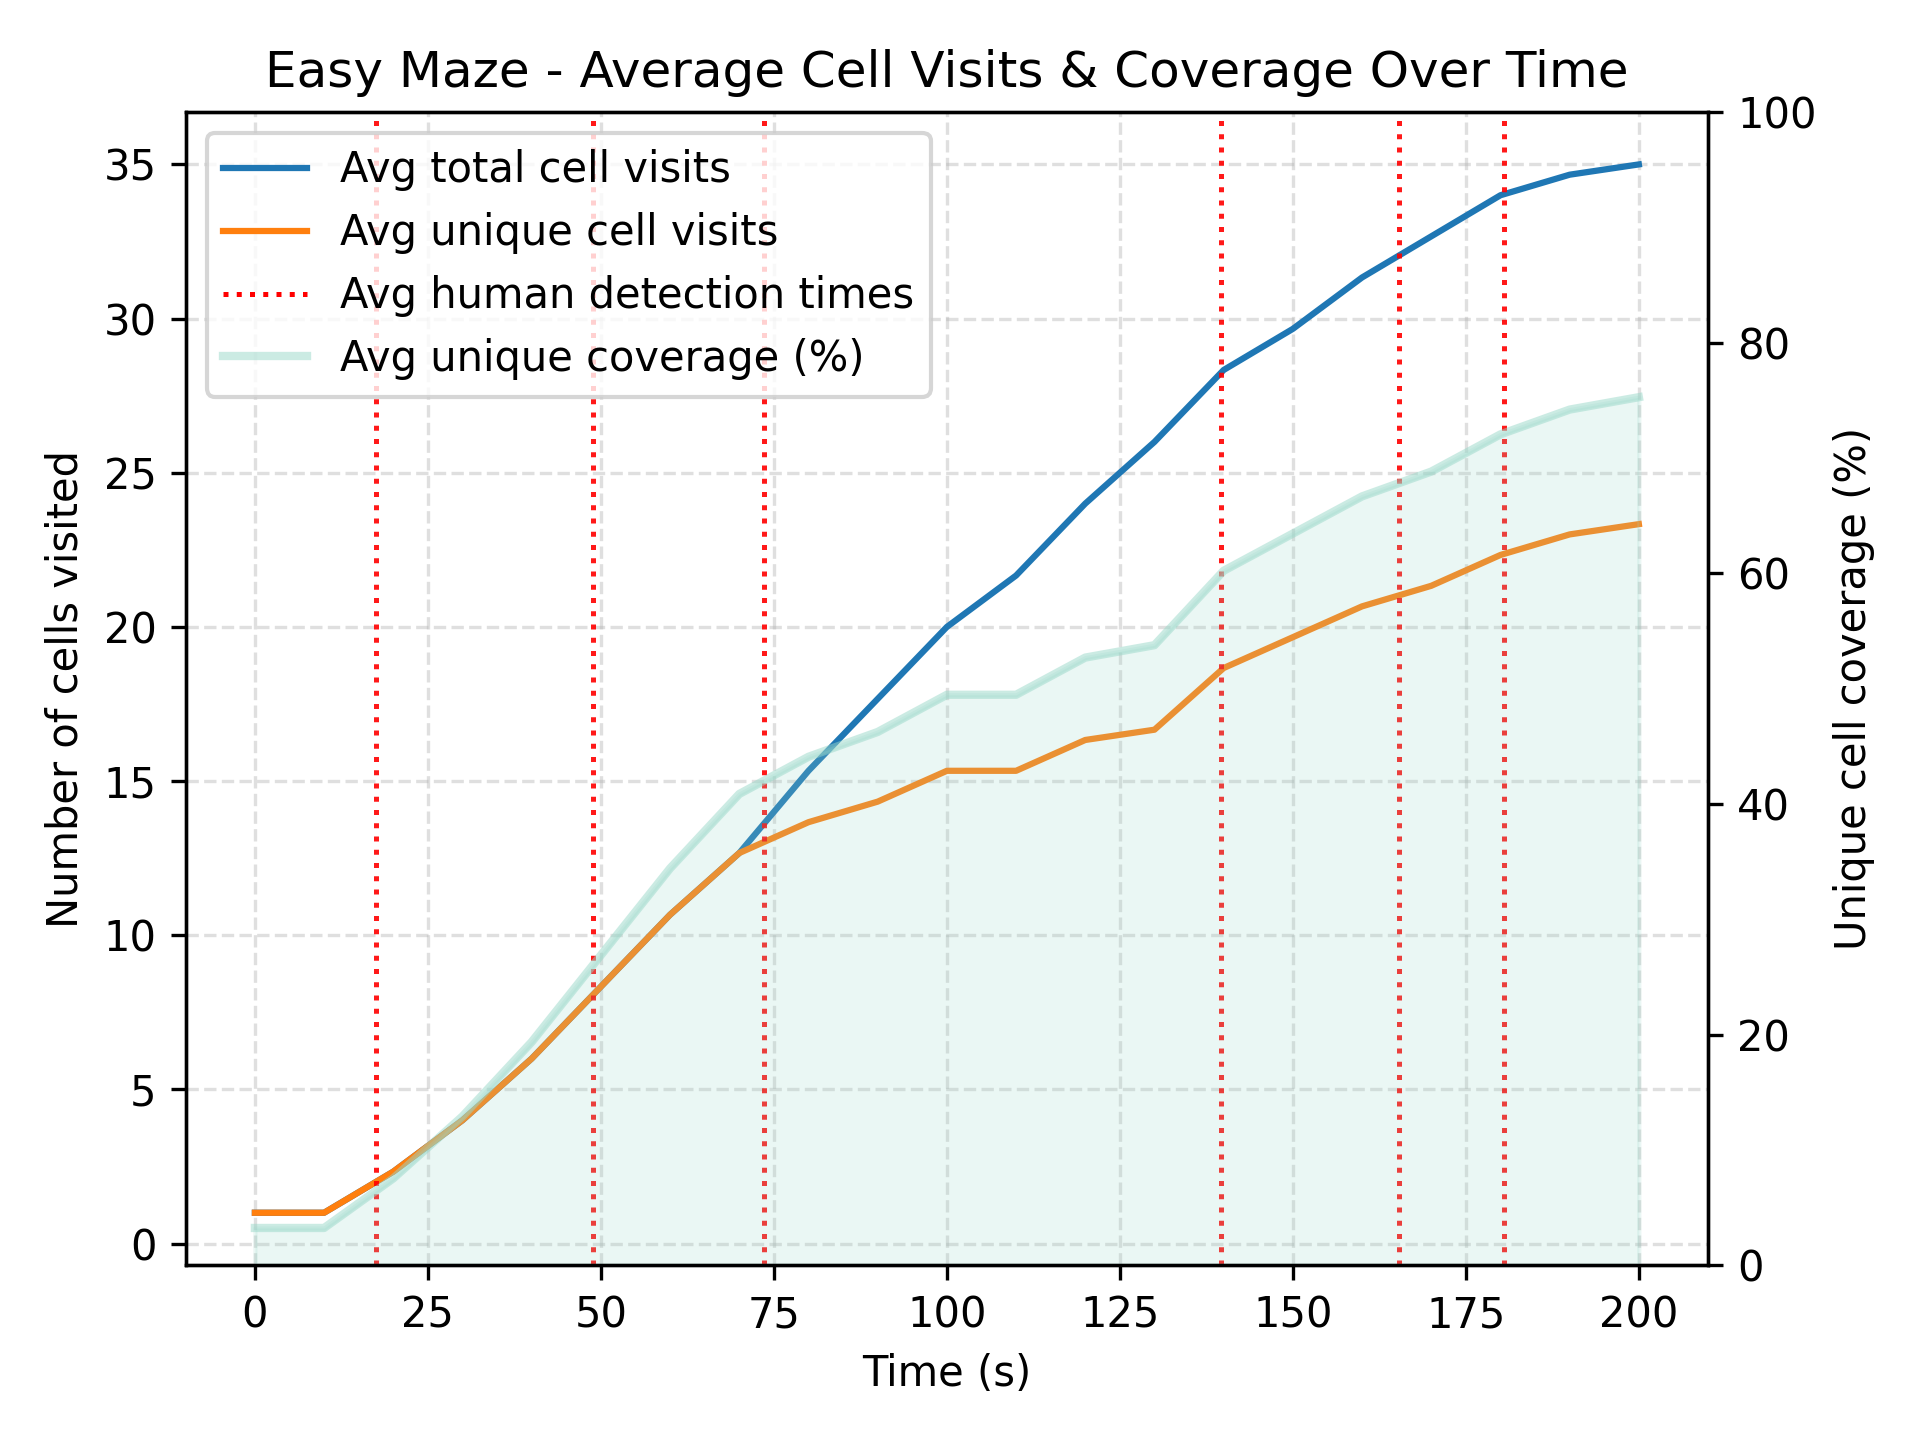
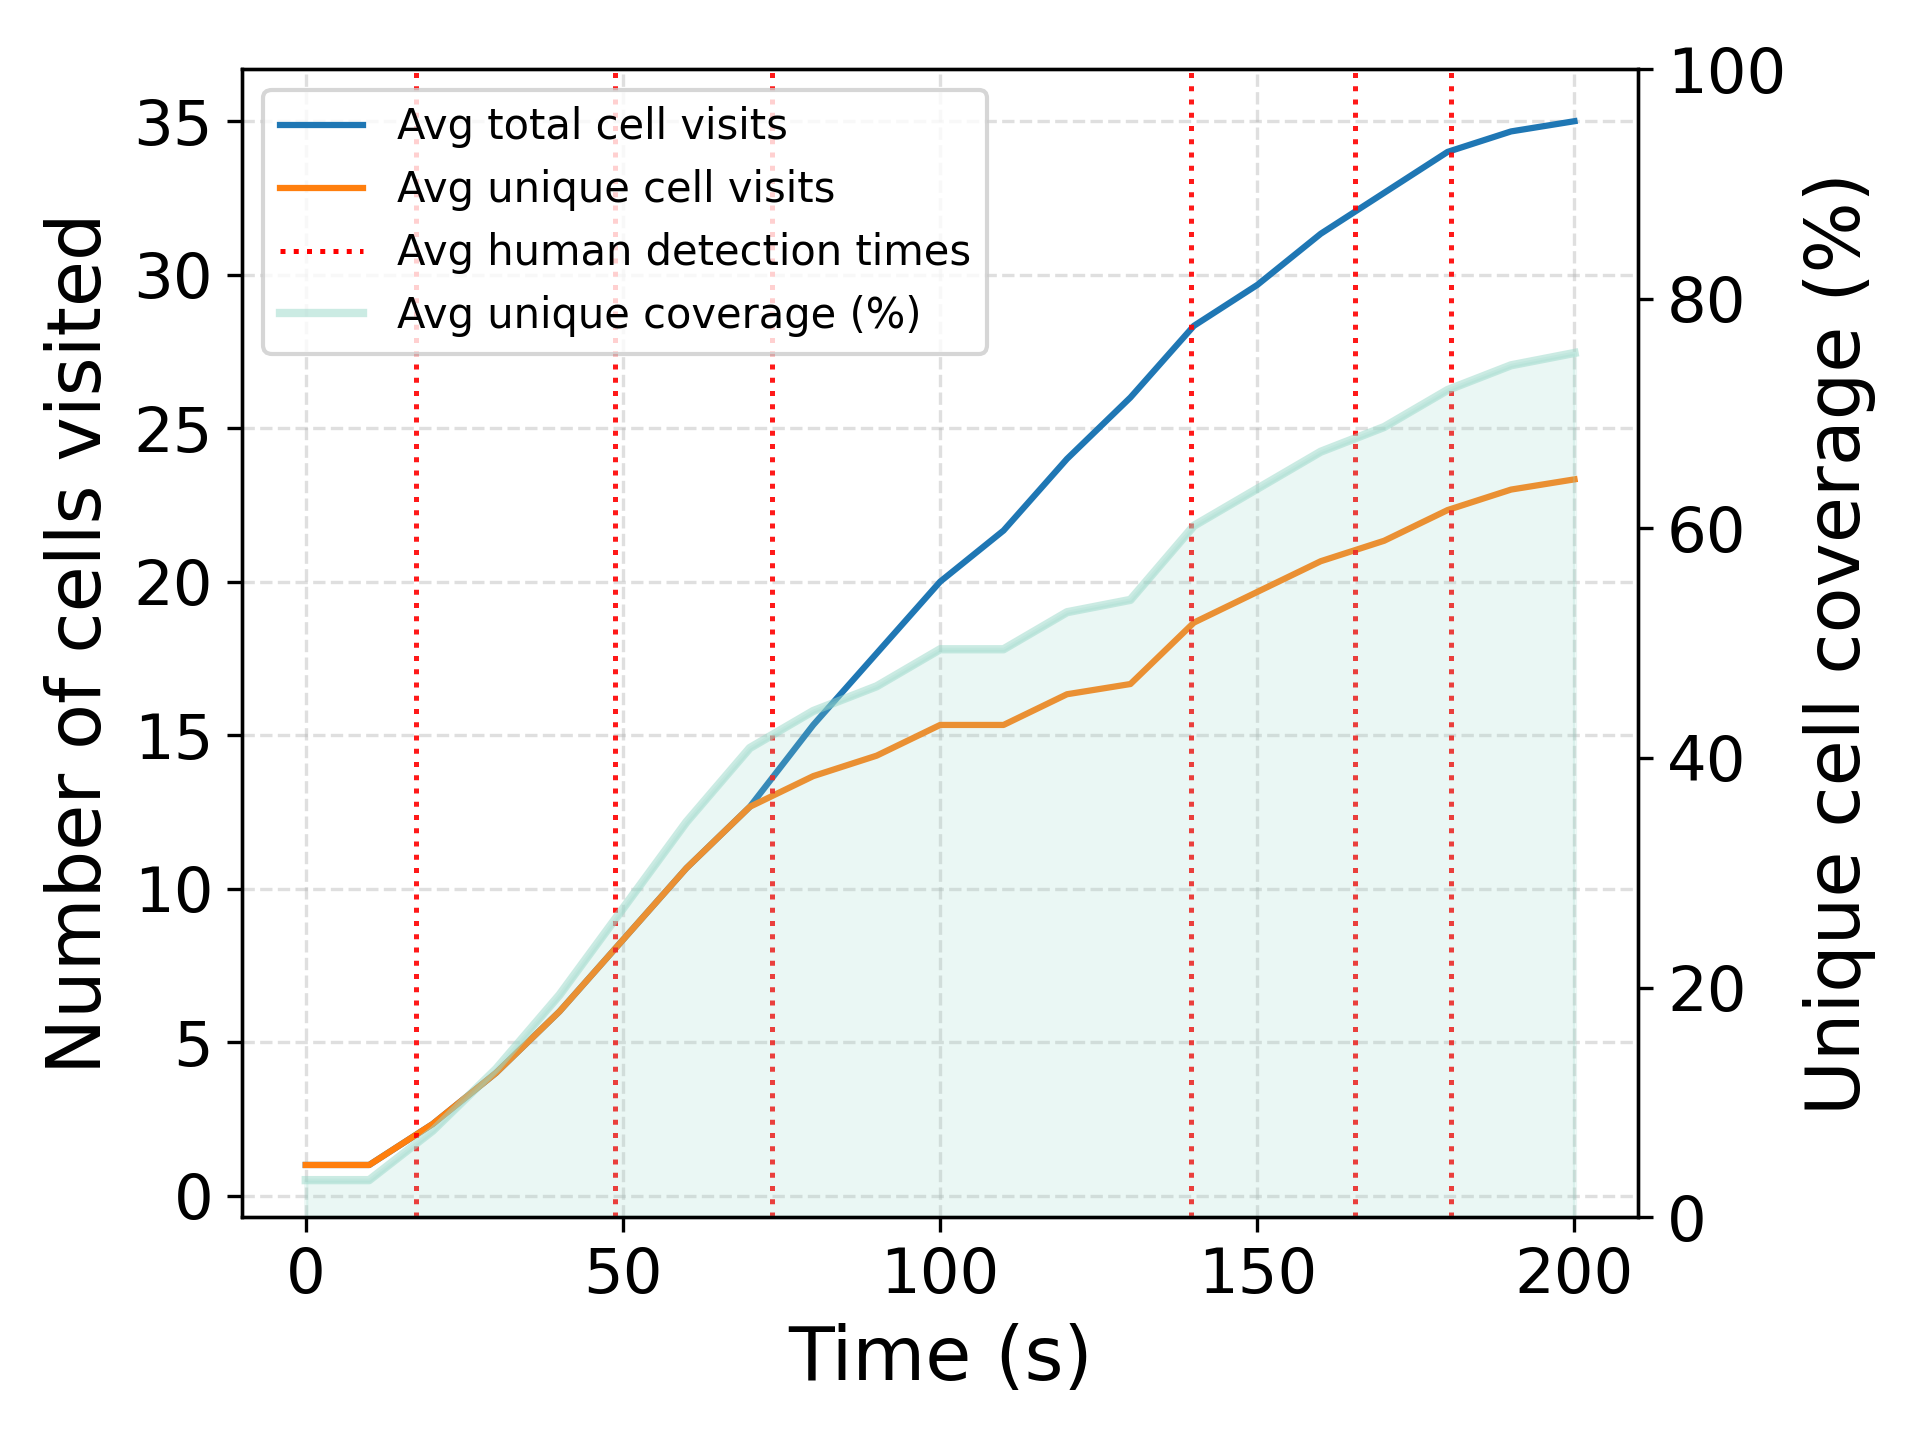
increased font sizes in both easy and hard maze plots

diff --git a/ROS/plot_avg_cell_visited_avg_unique_cells_coverage_percentage_and_victim_identification.py b/ROS/plot_avg_cell_visited_avg_unique_cells_coverage_percentage_and_victim_identification.py
@@ -352,8 +352,8 @@ def plot_average_with_detections(
         label="Avg unique cell visits",
     )
 
-    ax_left.set_xlabel("Time (s)")
-    ax_left.set_ylabel("Number of cells visited")
+    ax_left.set_xlabel("Time (s)", fontsize=18)
+    ax_left.set_ylabel("Number of cells visited", fontsize=18)
     ax_left.grid(True, linestyle="--", alpha=0.4)
 
     # Right Y-axis: coverage percentage
@@ -376,7 +376,13 @@ def plot_average_with_detections(
         alpha=0.2,
     )
     ax_right.set_ylim(0.0, 100.0)
-    ax_right.set_ylabel("Unique cell coverage (%)")
+    ax_right.set_ylabel("Unique cell coverage (%)", fontsize=18)
+
+    ax_left.tick_params(axis='both', labelsize=15)   # Left axis ticks
+    ax_right.tick_params(axis='y', labelsize=15)     # Right axis ticks
+    ax_left.tick_params(axis='x', labelsize=15)
+
+
 
     # Vertical dotted red lines at average detection times
     from matplotlib.lines import Line2D
@@ -416,7 +422,7 @@ def plot_average_with_detections(
             loc="upper left",
         )
 
-    ax_left.set_title(f"{maze_label} Maze - Average Cell Visits & Coverage Over Time")
+    # ax_left.set_title(f"{maze_label} Maze - Average Cell Visits & Coverage Over Time")
 
     fig.tight_layout()
     fig.savefig(out_path, dpi=300)
